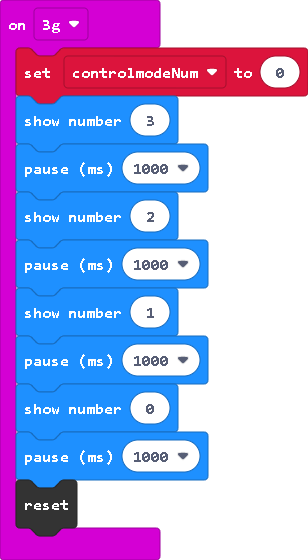
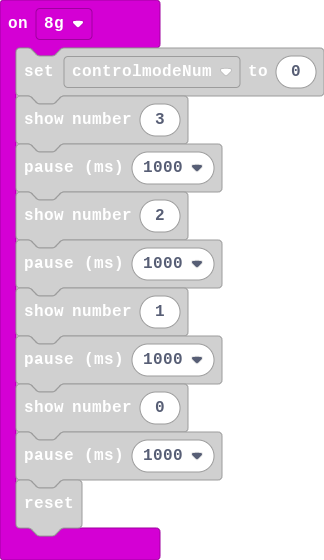
Fixed drop detection sensitivity and reformatted code.

diff --git a/main.ts b/main.ts
@@ -5,6 +5,18 @@ buttonClicks.onButtonSingleClicked(buttonClicks.AorB.B, function () {
         controlmodeNum += 1
     }
 })
+input.onGesture(Gesture.EightG, function () {
+    controlmodeNum = 0
+    basic.showNumber(3)
+    basic.pause(1000)
+    basic.showNumber(2)
+    basic.pause(1000)
+    basic.showNumber(1)
+    basic.pause(1000)
+    basic.showNumber(0)
+    basic.pause(1000)
+    control.reset()
+})
 buttonClicks.onButtonDoubleClicked(buttonClicks.AorB.A, function () {
     if (controlmodeNum == 4) {
         keyboard.sendString(keyboard.rawScancode(85))
@@ -86,18 +98,6 @@ buttonClicks.onButtonDoubleClicked(buttonClicks.AorB.B, function () {
 timeanddate.onDayChanged(function () {
     basic.pause(25200000)
     basic.showString("Good Morning!")
-})
-input.onGesture(Gesture.ThreeG, function () {
-    controlmodeNum = 0
-    basic.showNumber(3)
-    basic.pause(1000)
-    basic.showNumber(2)
-    basic.pause(1000)
-    basic.showNumber(1)
-    basic.pause(1000)
-    basic.showNumber(0)
-    basic.pause(1000)
-    control.reset()
 })
 buttonClicks.onButtonHeld(buttonClicks.AorB.A, function () {
     if (controlmodeNum == 4) {
